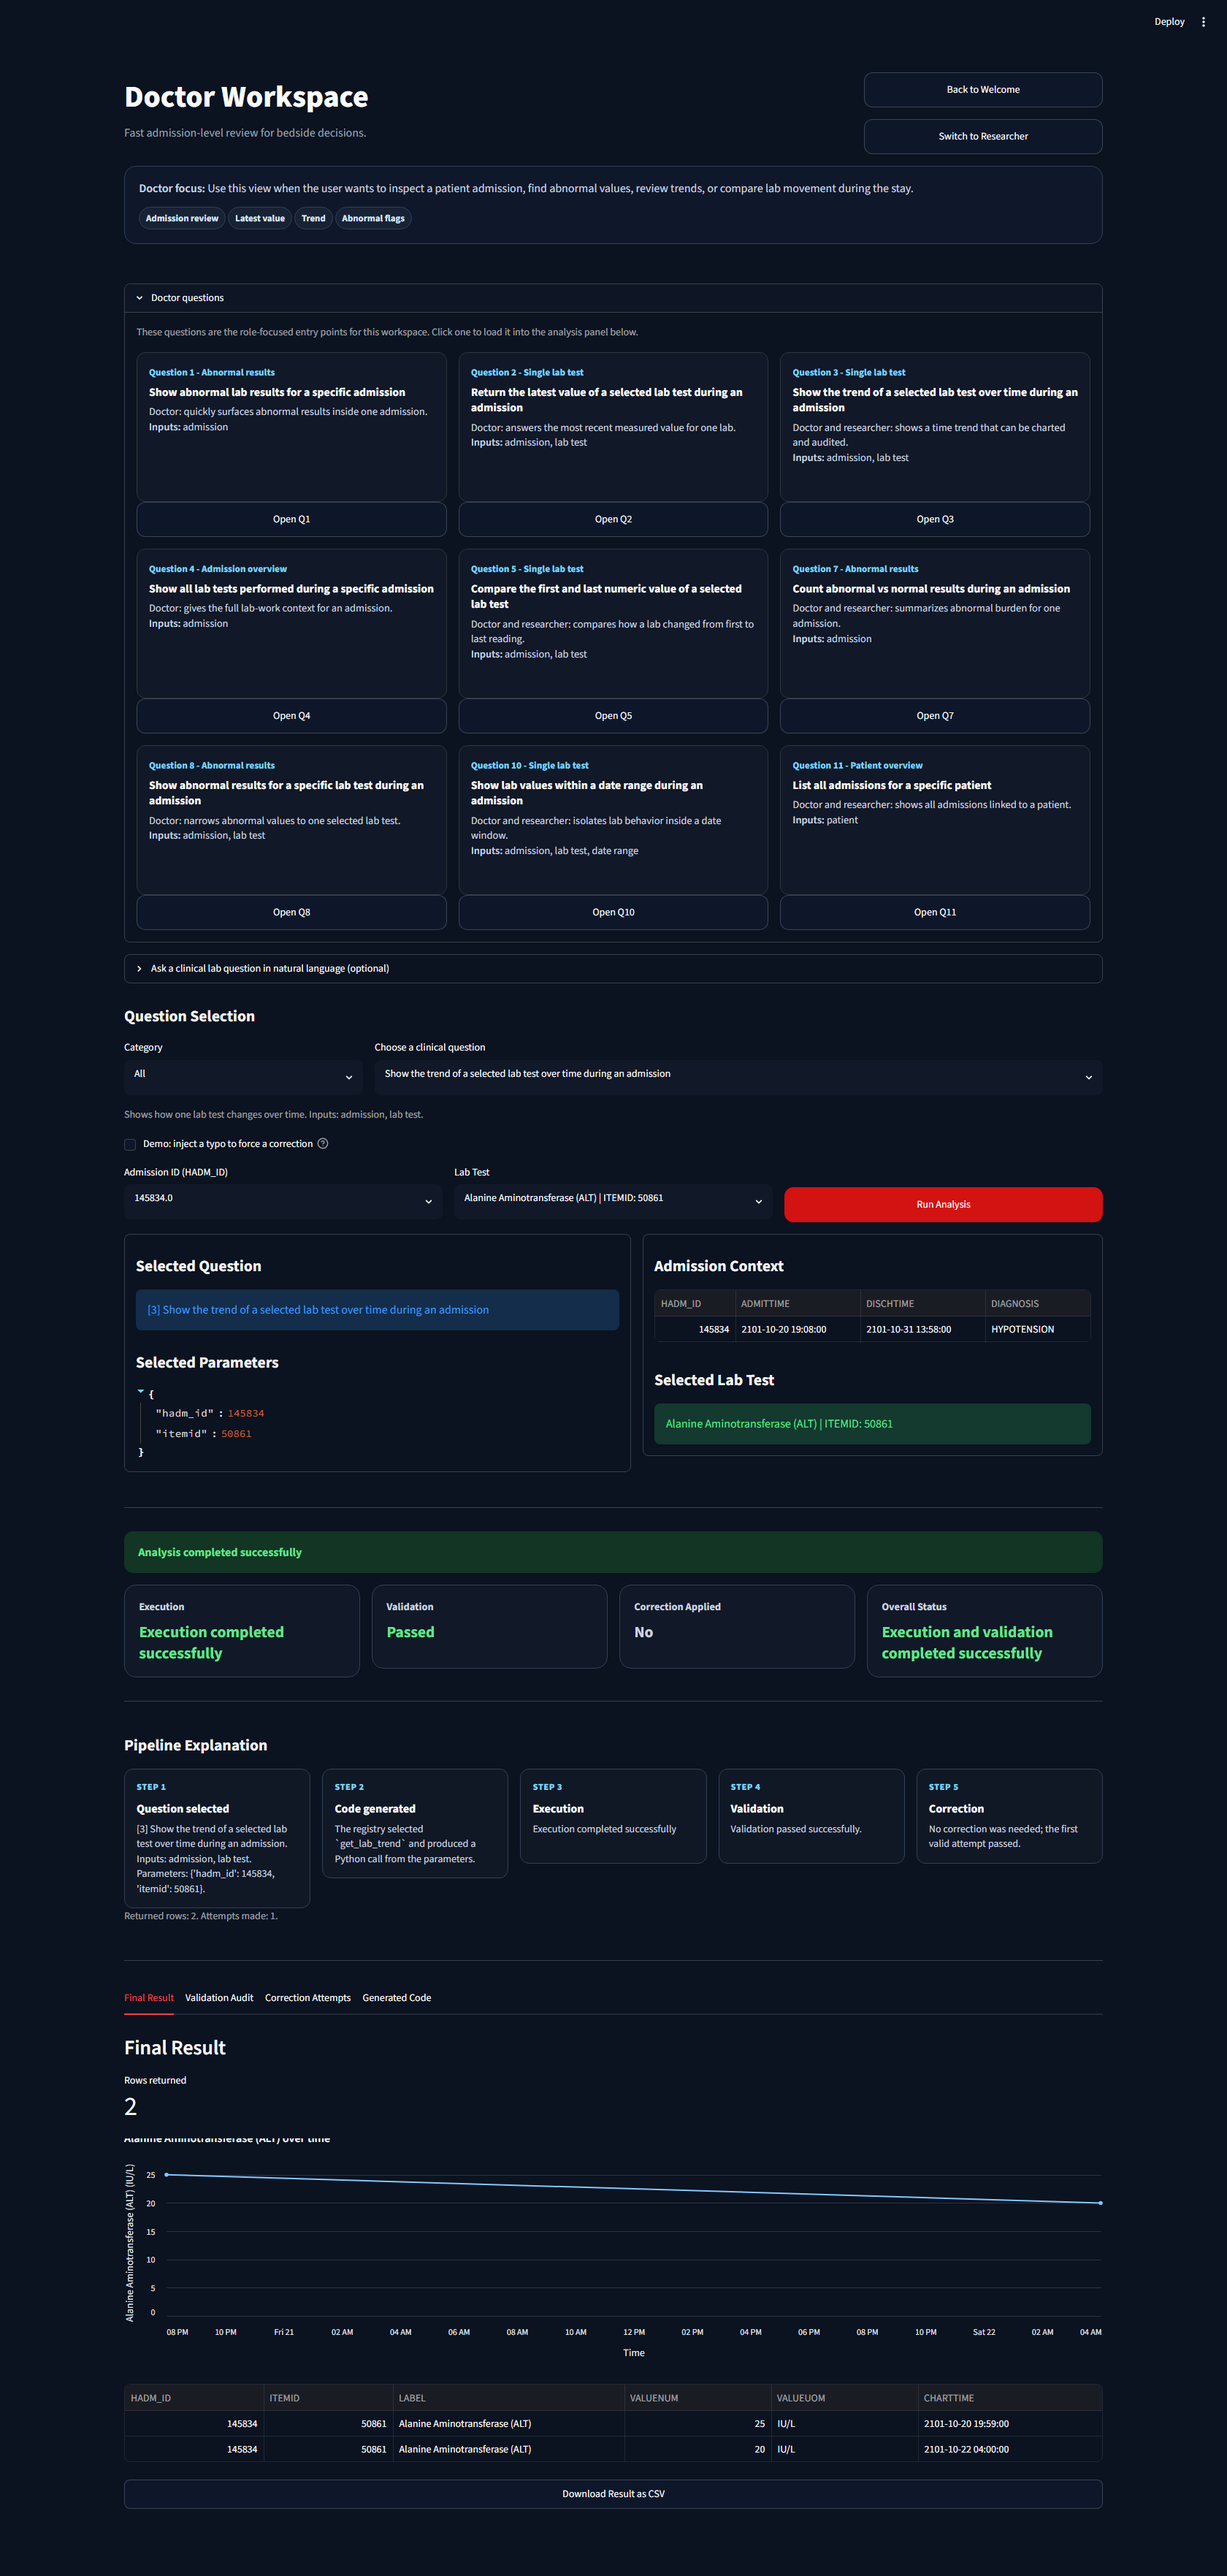
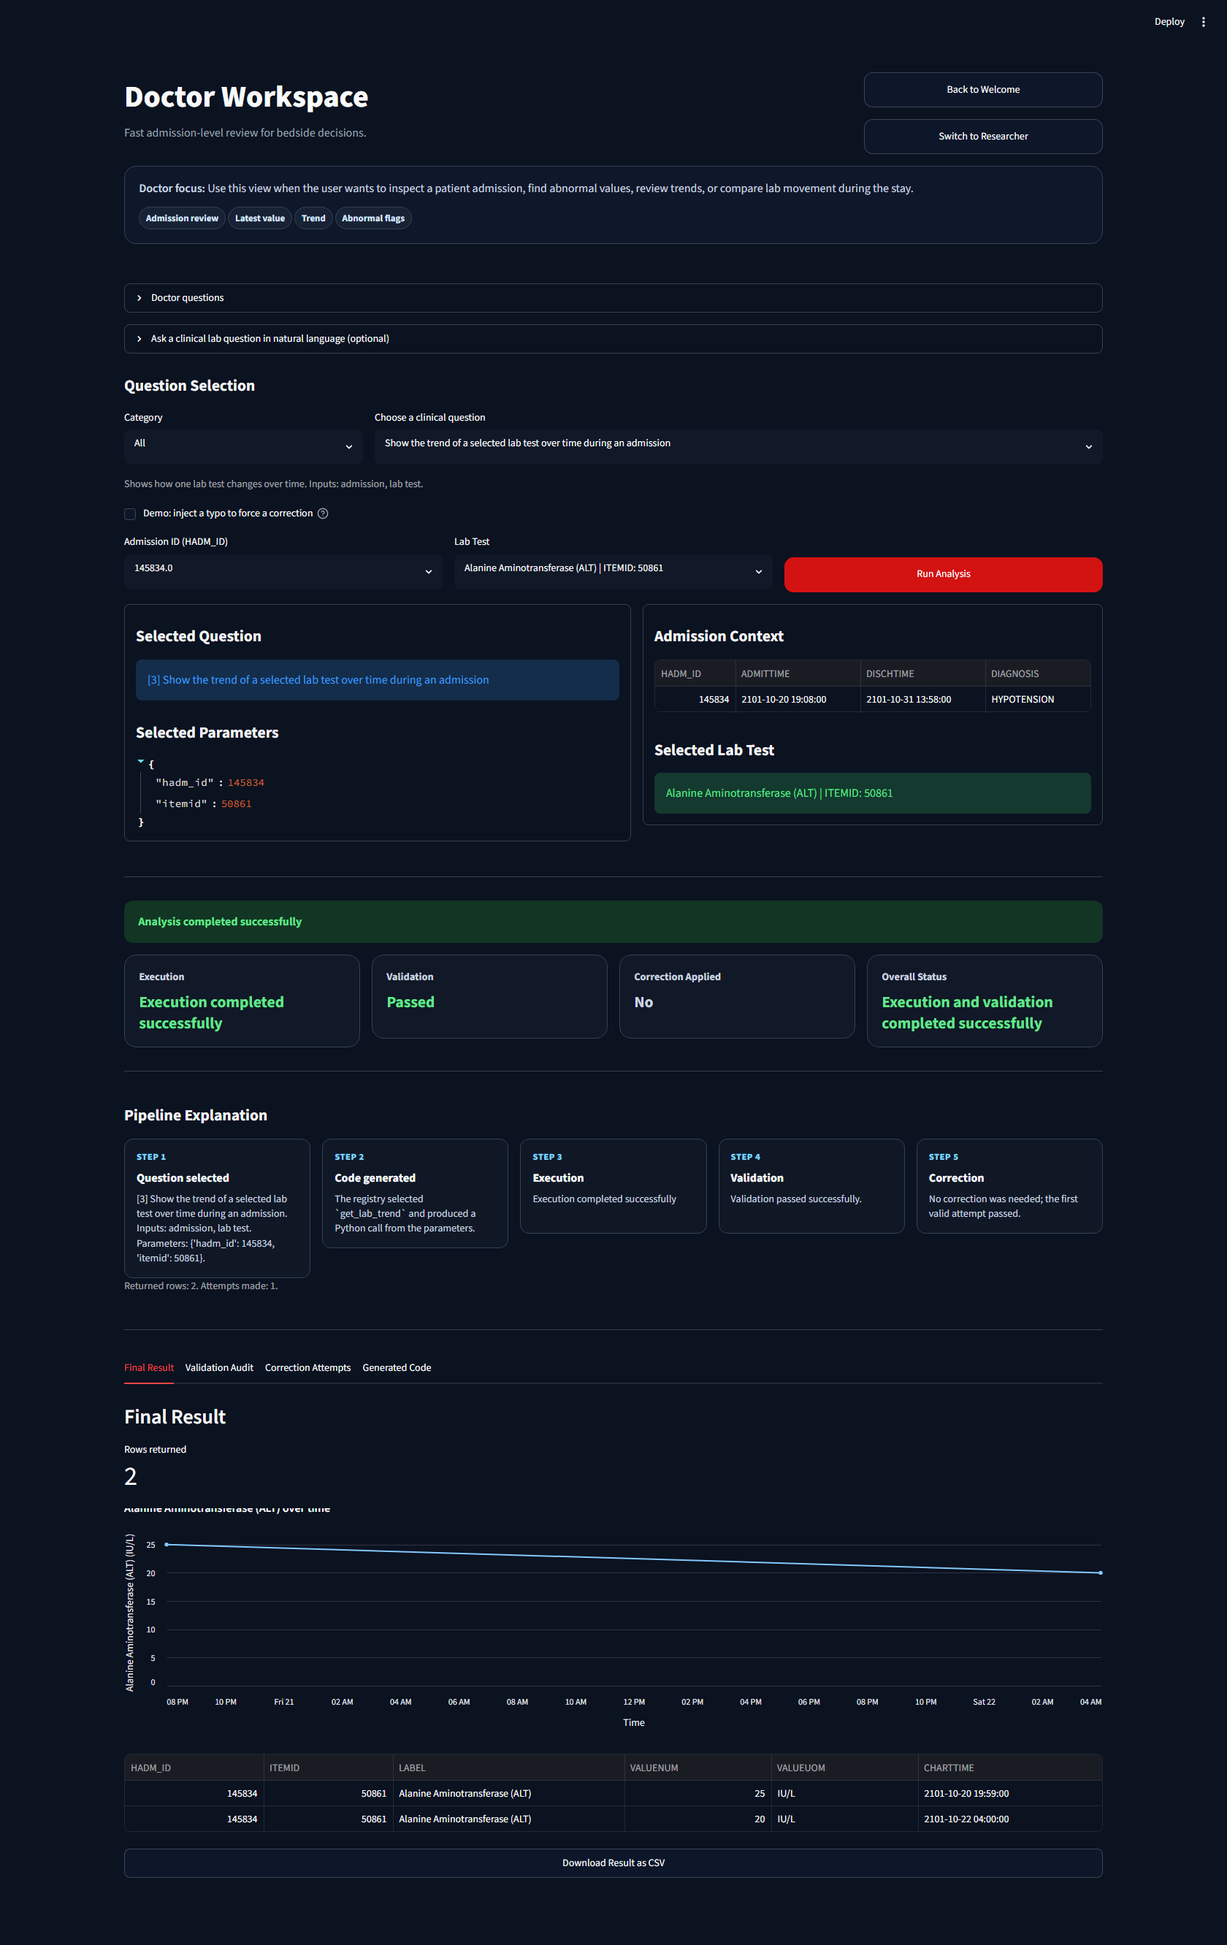
Refresh all UI screenshots and add the role question-card panels
Replace the 15 refreshed captures from the project repo (the UI now
shows Pipeline Explanation steps, admission/patient context panels, and
the NL interpretation banner) and add two new figures to the demo page:
the Doctor and Researcher question-card panels. The 12-questions intro
now mentions the Pipeline Explanation strip.

diff --git a/demo.htm b/demo.htm
@@ -52,12 +52,20 @@
         <a href="assets/img/welcome_expanded.png"><img src="assets/img/welcome_expanded.png" alt="The Welcome screen with the Implementation Notes and Project Evaluation sections expanded below the role cards."></a>
         <figcaption><strong>Welcome details expanded.</strong> The Welcome page's Implementation Notes (validation &amp; correction) and Project Evaluation sections, opened below the role cards.</figcaption>
       </figure>
+      <figure>
+        <a href="assets/img/doctor_questions.png"><img src="assets/img/doctor_questions.png" alt="The Doctor questions panel: nine question cards, each with a category tag, a role-focused description, the required inputs, and an Open button."></a>
+        <figcaption><strong>The Doctor workspace's question cards.</strong> Each card names its category, explains what the question answers for this role ("Doctor: quickly surfaces abnormal results inside one admission"), lists its inputs, and loads the analysis panel in one click.</figcaption>
+      </figure>
+      <figure>
+        <a href="assets/img/researcher_questions.png"><img src="assets/img/researcher_questions.png" alt="The Researcher questions panel: eight question cards oriented to dataset-level analysis, including summary statistics and the dataset-wide aggregate."></a>
+        <figcaption><strong>The Researcher workspace's question cards.</strong> The same card format, oriented to dataset-level analysis — summary statistics, distinct abnormal tests, and the dataset-wide aggregate (Q12) — alongside the shared admission-level questions.</figcaption>
+      </figure>
     </div>
   </section>
 
   <section>
     <h2>The 12 supported questions</h2>
-    <p>Each run shows summary metric cards, an optional trend chart, a color-coded status, and four tabs: <em>Final Result</em> (with CSV download), <em>Validation Audit</em>, <em>Correction Attempts</em>, and <em>Generated Code</em>.</p>
+    <p>Each run shows a color-coded status, summary metric cards, a five-step <em>Pipeline Explanation</em> strip (question selected → code generated → execution → validation → correction), an optional trend chart, and four tabs: <em>Final Result</em> (with CSV download), <em>Validation Audit</em>, <em>Correction Attempts</em>, and <em>Generated Code</em>.</p>
     <div class="gallery">
       <figure>
         <a href="assets/img/q01.png"><img src="assets/img/q01.png" alt="Question 1 running in the app: abnormal lab results for a specific admission."></a>
